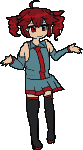
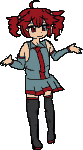
ドット立ち絵を単色のべた塗りに（目のハイライト・グラデーションを付けない）
作者指摘: 目の白い点は作者の絵に無い（清書の AI が勝手に足したハイライト）。グラデーションも
AI っぽいので不要、単色の方がよい。清書の指示を「各部分を1色のべた塗り・影/ハイライト/
グラデーション/光沢なし・目に光を入れない」に変え、キリコの毛先の青緑などの色の変化も外して
8人とも作り直した。減色は12色（10色だとロゼの黒髪と青緑が1色にまとまった）。

diff --git a/scripts/portrait-dots/topix.py b/scripts/portrait-dots/topix.py
@@ -10,7 +10,7 @@ S = os.environ.get('WORK', os.path.join(os.getcwd(), 'work')) + '/'
 BODY = int(sys.argv[1]) if len(sys.argv) > 1 else 150
 # 2つめ以降の引数はキャラ id（省略時は work/ の *_ai.png 全部）
 NAMES = sys.argv[2:]
-COLORS = 14
+COLORS = 12
 
 
 def cut_bg(rgb):

diff --git a/scripts/portrait-dots/README.md b/scripts/portrait-dots/README.md
@@ -1,7 +1,7 @@
 # ジオラマ表示のドット立ち絵（public/portraits-dot/）の作り方
 
 作者の立ち絵（public/portraits/ の線画）を、LAN の画像生成（ComfyUI の Qwen-Image-Edit-2511。
-C:/_own/git/ComfyUI/agent/README.md）で「同じポーズ・髪型・服・表情のまま清書してべた塗り」にし、
+C:/_own/git/ComfyUI/agent/README.md）で「同じポーズ・髪型・服・表情のまま清書して単色のべた塗り（影・ハイライト・グラデーション無し）」にし、
 それをドット絵にする。線画を直接ドット化すると、ラフな内側の線が縮小で潰れて読めなかったため（2026-09-27）。
 
 1. 線画を白地に貼って `work/<id>_white.png` にする（透明のままだと背景が黒く読まれる）
@@ -9,7 +9,7 @@ C:/_own/git/ComfyUI/agent/README.md）で「同じポーズ・髪型・服・表
    **色は各キャラの公式サイトの設定・公式立ち絵に合わせる**（run.sh の各行に出典。キリコは肌が山吹色）。
    床の影が出たら「床の影や地面は描かない」を強める／seed を変える
 3. `python scripts/portrait-dots/topix.py 150 [id…]` — 白地を抜き、全身 150 ドットに面積平均で縮小、
-   14色に減色、外周に1ドットの輪郭。`work/<id>_pix.png` を public/portraits-dot/<id>.png へ
+   12色に減色、外周に1ドットの輪郭。`work/<id>_pix.png` を public/portraits-dot/<id>.png へ
 4. ゲームは表示のときに場面の色を 45% かける（engine/diorama.ts の tintPortrait）
 
 作者が自分でドット立ち絵を描いたら、同じ名前で public/portraits-dot/ に置けば差し替わる。
